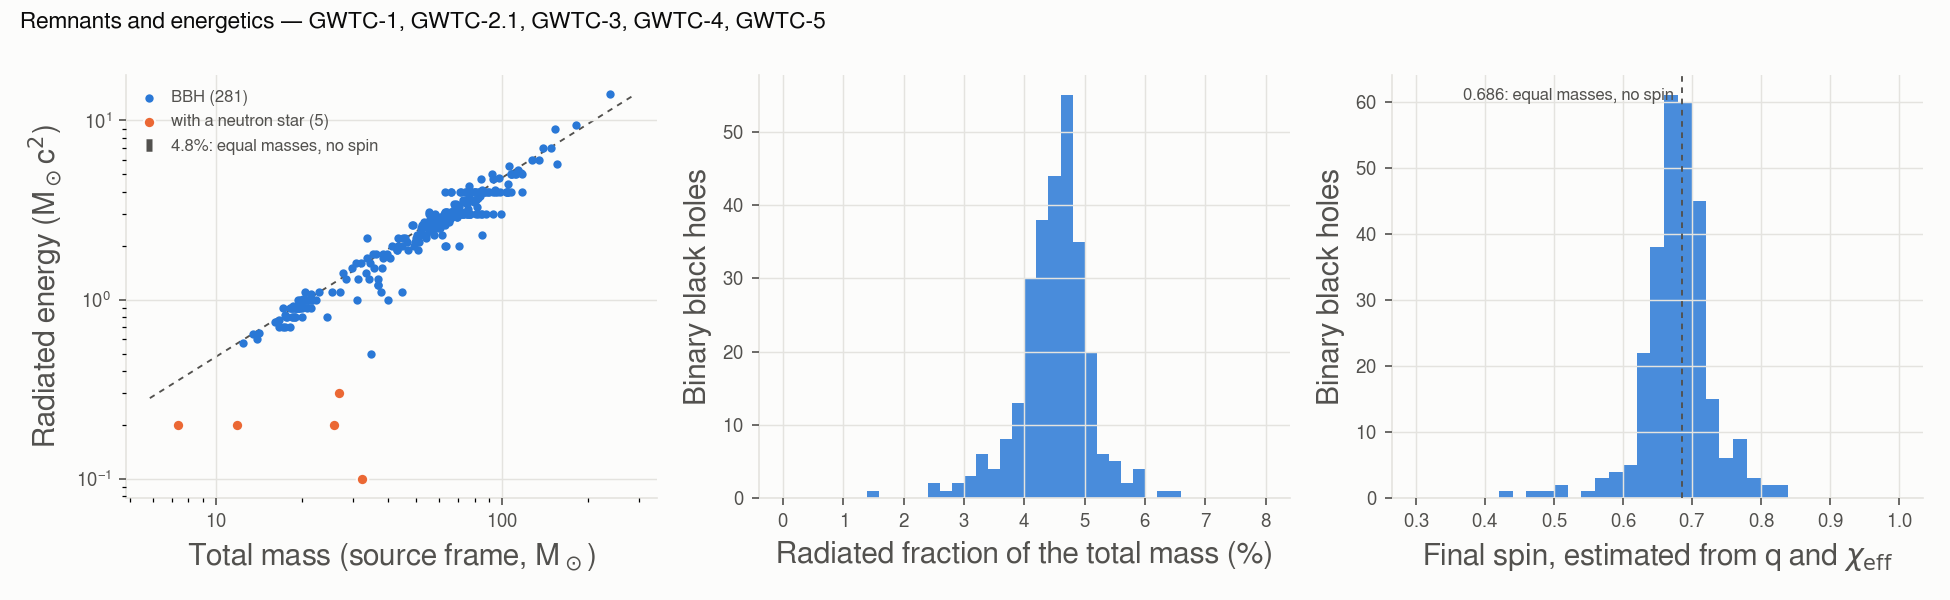
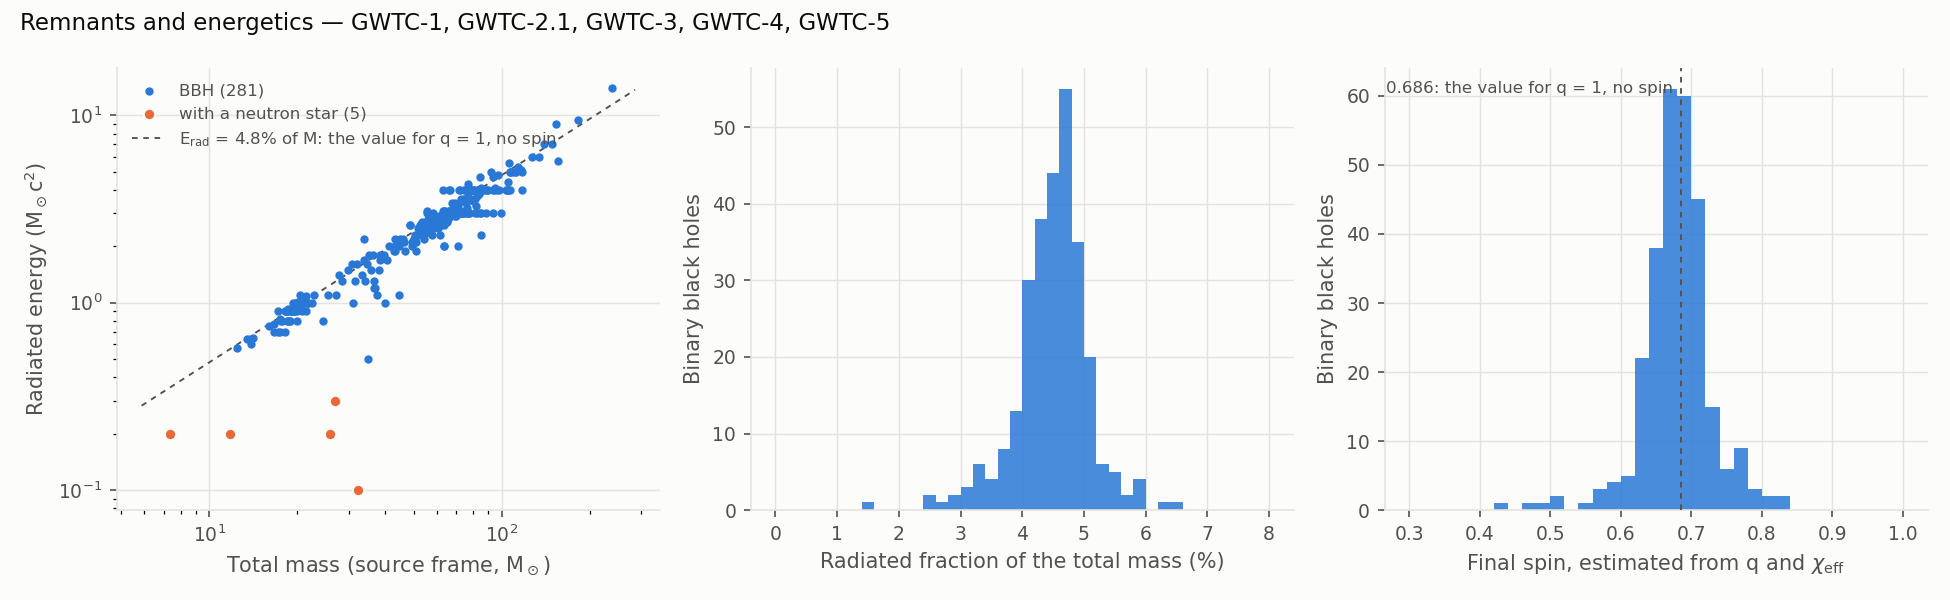
catalog_statistics remnants figure: the dashed lines are labelled as reference values ("E_rad = 4.8% of M: the value for q = 1, no spin", "0.686: the value for q = 1, no spin") rather than read as a class of events; docs: the caption says the lines do not classify the events, that the fraction depen

diff --git a/gwtc_analysis/catalogs.py b/gwtc_analysis/catalogs.py
@@ -321,7 +321,7 @@ def _plot_remnants(df: pd.DataFrame, out_png: Path, catalogs_label: str = "") ->
         ax.scatter(d.loc[~bbh, "total_mass_source"], d.loc[~bbh, "radiated_energy_msun"], s=30, color=orange,
                    edgecolor=surface, lw=1, label=f"with a neutron star ({int((~bbh).sum())})", zorder=4)
     m = np.geomspace(max(1.0, d["total_mass_source"].min() * 0.8), d["total_mass_source"].max() * 1.2, 50)
-    ax.plot(m, 0.048 * m, color=ink2, lw=0.9, ls=(0, (3, 3)), zorder=2, label="4.8%: equal masses, no spin")
+    ax.plot(m, 0.048 * m, color=ink2, lw=0.9, ls=(0, (3, 3)), zorder=2, label="E$_{\\rm rad}$ = 4.8% of M: the value for q = 1, no spin")
     ax.set_xscale("log"); ax.set_yscale("log")
     ax.set_xlabel("Total mass (source frame, M$_\\odot$)", color=ink2)
     ax.set_ylabel("Radiated energy (M$_\\odot$c$^2$)", color=ink2)
@@ -333,7 +333,7 @@ def _plot_remnants(df: pd.DataFrame, out_png: Path, catalogs_label: str = "") ->
     af = d["final_spin_estimate"].dropna()
     axes[2].hist(af, bins=np.linspace(0.3, 1.0, 36), color=blue, alpha=0.85, lw=0, zorder=2)
     axes[2].axvline(0.686, color=ink2, lw=0.9, ls=(0, (3, 3)), zorder=3)
-    axes[2].annotate("0.686: equal masses, no spin", xy=(0.686, 1), xycoords=("data", "axes fraction"),
+    axes[2].annotate("0.686: the value for q = 1, no spin", xy=(0.686, 1), xycoords=("data", "axes fraction"),
                      xytext=(-4, -12), textcoords="offset points", fontsize=8, color=ink2, ha="right")
     axes[2].set_xlabel("Final spin, estimated from q and $\\chi_{\\rm eff}$", color=ink2)
     axes[2].set_ylabel("Binary black holes", color=ink2)

diff --git a/docs/modes/catalog-statistics.md b/docs/modes/catalog-statistics.md
@@ -75,6 +75,12 @@ The report lists the 10 events that radiated the most energy, with a figure:
 equal masses without spin; the events with a neutron star radiate much less (orange). The estimated
 final spins cluster near 0.69, as expected for mergers of similar masses with small spins.*
 
+*The dashed lines mark the values of a reference binary, equal masses without spin (numerical
+relativity); they do not classify the events. Lying near them does not mean equal masses: the
+fraction depends on η = q/(1+q)², flat near q = 1 (q = 0.7 radiates 4.6%, q = 0.5 about 3.9%), and
+aligned spins raise it, so an unequal pair with χ_eff > 0 can sit on the line (GW230928_215827:
+q = 0.54, χ_eff = 0.40, 4.8%). Of the 114 binary black holes within 4.3–5.3%, 47 have q ≥ 0.75.*
+
 | Event | Total mass (M☉) | Final mass (M☉) | E_rad (M☉c²) | E_rad (erg) | Final spin (estimate) |
 |---|---|---|---|---|---|
 | GW231123_135430 | 236 | 222 | 14.0 | 2.5 × 10⁵⁵ | 0.77 |
